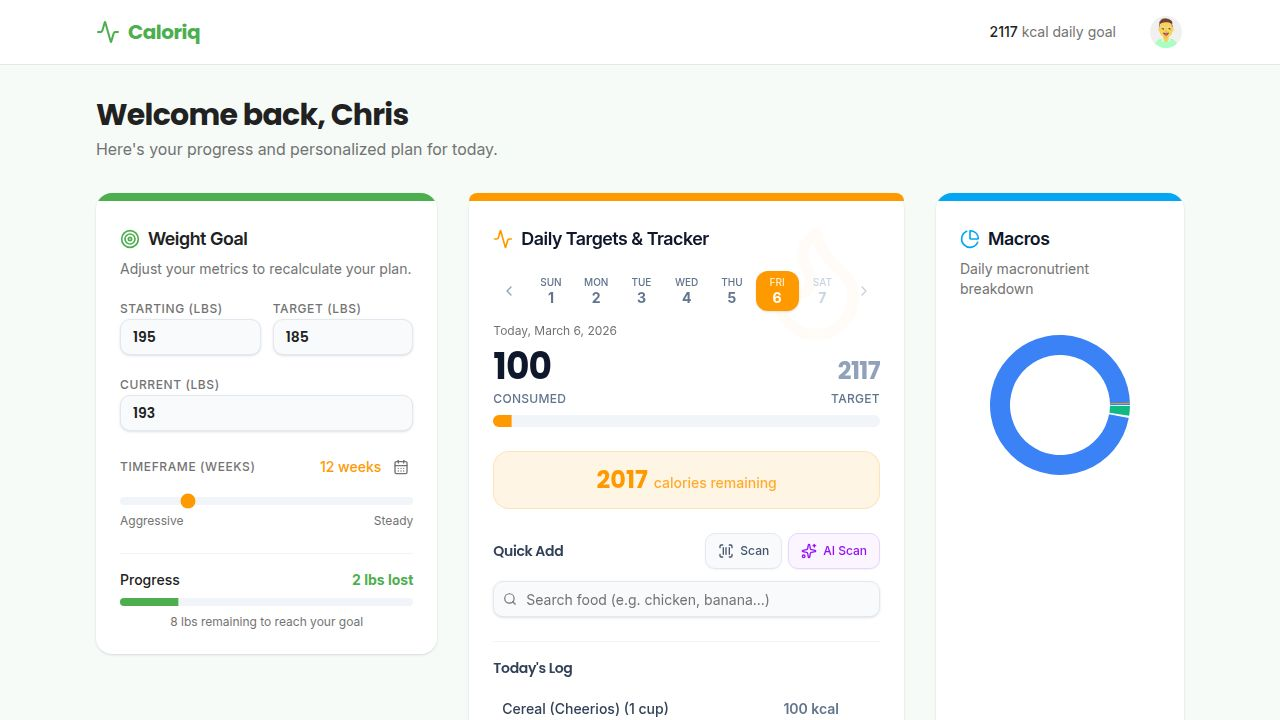
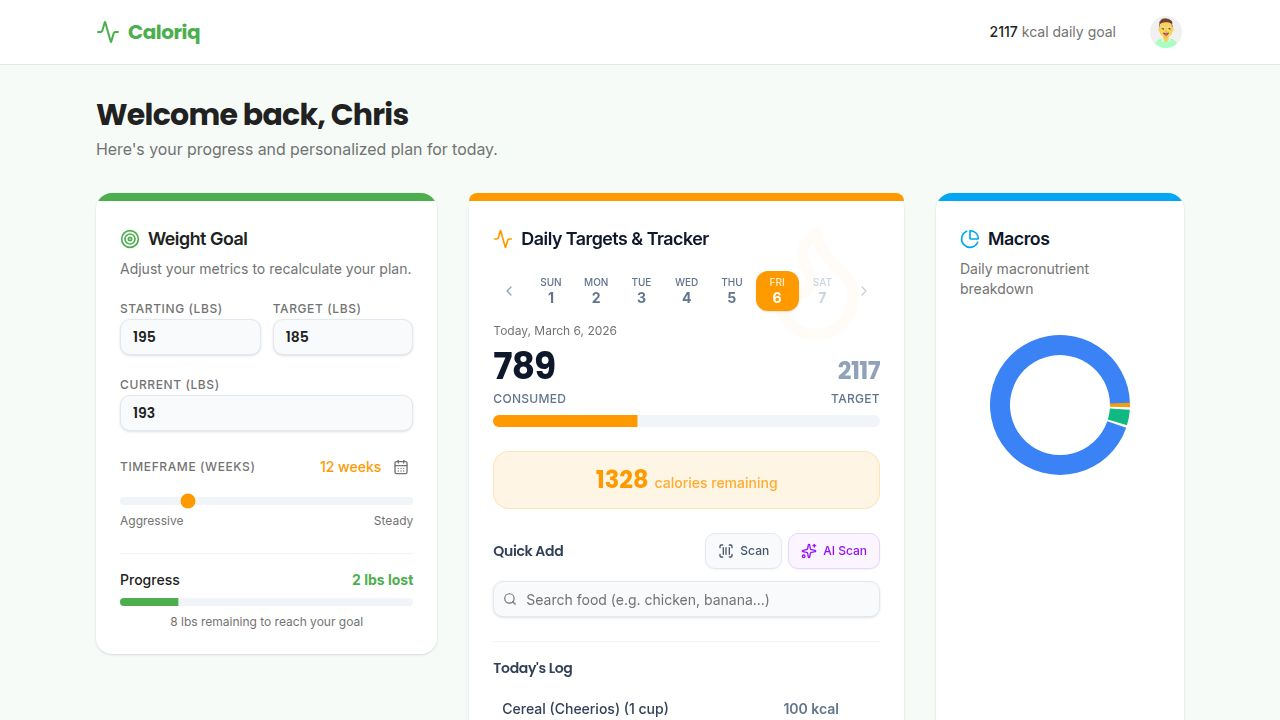
Fix calculation of nutritional information for scanned food items
Revert nutrient calculation logic to a simpler approach using existing serving or 100g values, resolving issues caused by complex serving size and multi-pack calculations.

Replit-Commit-Author: Agent
Replit-Commit-Session-Id: d0c98cd4-3401-4b9a-9fcc-3167ef5b7d4c
Replit-Commit-Checkpoint-Type: full_checkpoint
Replit-Commit-Event-Id: 1c59cc8d-b007-4b7c-a214-53a242d5ce80
Replit-Commit-Screenshot-Url: https://storage.googleapis.com/screenshot-production-us-central1/b5252e75-7d72-4a27-a063-837869a7ea78/d0c98cd4-3401-4b9a-9fcc-3167ef5b7d4c/SVa8hiL
Replit-Helium-Checkpoint-Created: true

Changed region(s): [[0.375, 0.4889, 0.5, 0.6111], [0.4688, 0.6417, 0.5938, 0.7028], [0.8438, 0.55, 0.9062, 0.5806]]

diff --git a/client/src/components/BarcodeScanner.tsx b/client/src/components/BarcodeScanner.tsx
@@ -72,61 +72,20 @@ export default function BarcodeScanner({ onLog }: BarcodeScannerProps) {
       if (data.status === 1 && data.product) {
         const p = data.product;
         const nutriments = p.nutriments || {};
+        const servingSize = p.serving_size || p.quantity || "1 serving";
 
-        const servingSizeRaw = p.serving_size || "";
-        const servingQuantity = p.serving_quantity;
-        const numServings = p.product_quantity && servingQuantity
-          ? parseFloat(p.product_quantity) / servingQuantity
-          : null;
-
-        const getNutrient = (key: string): number => {
-          const perServing = nutriments[`${key}_serving`];
-          const per100g = nutriments[`${key}_100g`];
-
-          if (perServing != null && servingQuantity && numServings && numServings > 1.5) {
-            return per100g != null && servingQuantity
-              ? (per100g * servingQuantity) / 100
-              : perServing / numServings;
-          }
-
-          if (perServing != null && servingQuantity) {
-            if (per100g != null) {
-              const calcFromWeight = (per100g * servingQuantity) / 100;
-              return calcFromWeight;
-            }
-            return perServing;
-          }
-
-          if (per100g != null && servingQuantity) {
-            return (per100g * servingQuantity) / 100;
-          }
-
-          if (perServing != null) return perServing;
-          if (per100g != null) return per100g;
-          return 0;
-        };
-
-        const safeNutrient = (key: string): number => {
-          const val = getNutrient(key);
-          return isFinite(val) ? val : 0;
-        };
-
-        let calories = safeNutrient("energy-kcal");
-        if (calories === 0) {
-          const energyKj = safeNutrient("energy");
-          if (energyKj > 0) calories = energyKj / 4.184;
-        }
-
-        const servingDisplay = servingSizeRaw || (servingQuantity ? `${servingQuantity}g` : "1 serving");
+        const caloriesPerServing = nutriments["energy-kcal_serving"]
+          ?? nutriments["energy-kcal_100g"]
+          ?? Math.round((nutriments["energy_serving"] ?? nutriments["energy_100g"] ?? 0) / 4.184);
 
         setProduct({
           name: p.product_name || p.product_name_en || "Unknown Product",
           brand: p.brands || "",
-          calories: Math.round(calories),
-          protein: Math.round(safeNutrient("proteins")),
-          carbs: Math.round(safeNutrient("carbohydrates")),
-          fat: Math.round(safeNutrient("fat")),
-          servingSize: servingDisplay,
+          calories: Math.round(caloriesPerServing),
+          protein: Math.round(nutriments["proteins_serving"] ?? nutriments["proteins_100g"] ?? 0),
+          carbs: Math.round(nutriments["carbohydrates_serving"] ?? nutriments["carbohydrates_100g"] ?? 0),
+          fat: Math.round(nutriments["fat_serving"] ?? nutriments["fat_100g"] ?? 0),
+          servingSize,
           imageUrl: p.image_front_small_url || p.image_url
         });
       } else {
